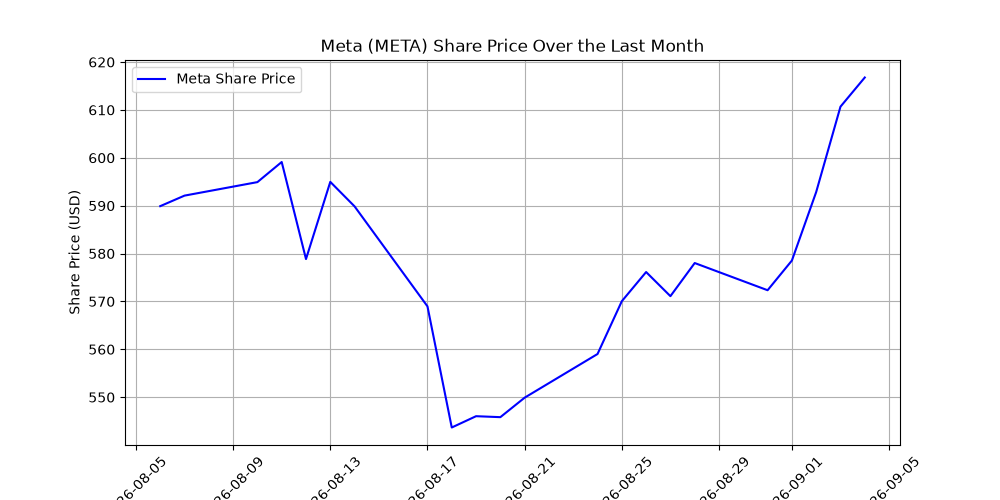
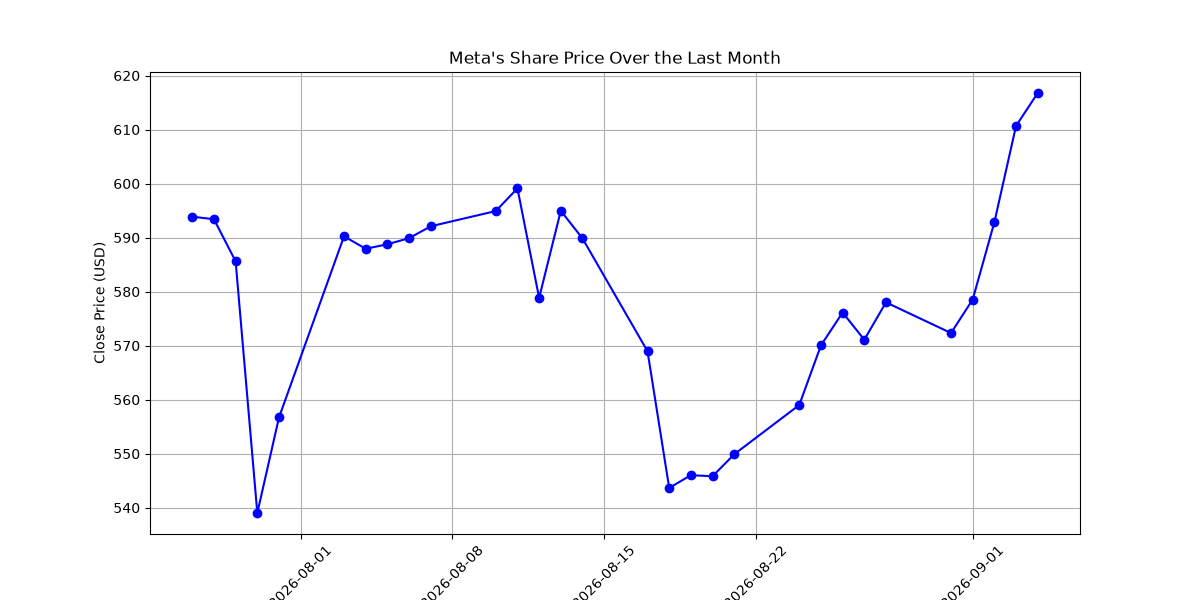
organize sub agents in sub_agent.py for multi-agents to import

diff --git a/graphs/multi_agent_swap.py b/graphs/multi_agent_swap.py
@@ -1,17 +1,15 @@
-from langchain.agents import create_agent
-from langchain_openai import ChatOpenAI
-from tools import wikipedia_tool, stock_data_tool, python_repl_tool
-from utils import pretty_print_messages
-from config import BaseConfig
-from langgraph_swarm import create_handoff_tool, create_swarm
-from langgraph.checkpoint.memory import InMemorySaver
 import asyncio
+
+from langchain_openai import ChatOpenAI
+from langgraph.checkpoint.memory import InMemorySaver
+from langgraph_swarm import create_handoff_tool, create_swarm
+
+from config import BaseConfig
+from sub_agents import research_agent, analyst_agent
+from utils import print_agent, agent_run
 
 settings = BaseConfig()
 api_key = settings.OPENAI_API_KEY
-
-# Add three tools to the list: wikipedia_tool, stock_data_tool, and python_repl_tool
-
 
 llm = ChatOpenAI(api_key=api_key, model="gpt-4o-mini")
 
@@ -27,57 +25,16 @@ transfer_to_analyst = create_handoff_tool(
     description="Transfer user to the analyst assistant, who can create visualizations of provided data.",
 )
 
-# Create a researcher agent with access to two tools + the handoff tool
-research_agent = create_agent(
-    llm,
-    tools=[wikipedia_tool, stock_data_tool, transfer_to_analyst],
-    system_prompt="You provide summaries from Wikipedia, and can query load raw, numerical stock performance data.",
-    name="researcher"
-)
-
-# Create a analyst agent with access to one tool + the handoff tool
-analyst_agent = create_agent(
-    llm,
-    [python_repl_tool, transfer_to_researcher],
-    # system_prompt="""You generate plots of stock performance data provided by another assistant.
-    # When generating stock performance visualizations, ALWAYS save the figure to a file using `plt.savefig('plot.png')`
-    # and call `plt.close()`. DO NOT use `plt.show()`.""",
-    system_prompt = """You generate plots of stock performance data provided by another assistant.""",
-    name="analyst"
-)
-
-config = {"configurable": {"thread_id": "1", "user_id": "1"}}
 checkpointer = InMemorySaver()
 
-# Create the swarm multi-agent graph and compile it
-
-
-
-async def agent_run(agent, query: str, config=None):
-    async for chunk in agent.astream(
-            {"messages": [{"role": "user",
-                           "content": query}]}, config
-    ):
-        pretty_print_messages(chunk)
-
-def print_agent(agent):
-    png_bytes = agent.get_graph().draw_mermaid_png()
-
-    with open("swarm_agent_graph.png", "wb") as f:
-        f.write(png_bytes)
-
+swarm_agent = create_swarm(
+    agents=[research_agent, analyst_agent],
+    default_active_agent="researcher"
+).compile(checkpointer=checkpointer)
 
 if __name__ == "__main__":
+    print_agent(swarm_agent, "swarm_agent.png")
+
     config = {"configurable": {"thread_id": "1", "user_id": "1"}}
-    checkpointer = InMemorySaver()
-
-    swarm_agent = create_swarm(
-        agents=[research_agent, analyst_agent],
-        default_active_agent="researcher"
-    ).compile(checkpointer=checkpointer)
-
-    # print_agent(swarm_agent)
-
     query = """Plot a chart of Meta's share price over the last month"""
-    # asyncio.run(agent_run(query))
     asyncio.run(agent_run(swarm_agent, query, config))

diff --git a/graphs/multi_agent_supervisor.py b/graphs/multi_agent_supervisor.py
@@ -1,42 +1,17 @@
 import asyncio
 
-from langchain.agents import create_agent
 from langchain_openai import ChatOpenAI
 from langgraph.checkpoint.memory import InMemorySaver
 from langgraph_supervisor import create_supervisor
 
 from config import BaseConfig
-from tools import wikipedia_tool, stock_data_tool, python_repl_tool
-from utils import pretty_print_messages
+from sub_agents import research_agent, analyst_agent
+from utils import agent_run, print_agent
 
 settings = BaseConfig()
 api_key = settings.OPENAI_API_KEY
 
-
-
-# Add three tools to the list: wikipedia_tool, stock_data_tool, and python_repl_tool
-
-
 llm = ChatOpenAI(api_key=api_key, model="gpt-4o-mini")
-
-# Create a researcher agent with access to two tools + the handoff tool
-research_agent = create_agent(
-    llm,
-    tools=[wikipedia_tool, stock_data_tool],
-    system_prompt="You provide summaries from Wikipedia, and can query load raw, numerical stock performance data.",
-    name="researcher"
-)
-
-# Create a analyst agent with access to one tool + the handoff tool
-analyst_agent = create_agent(
-    llm,
-    [python_repl_tool],
-    system_prompt="""You generate plots of stock performance data provided by another assistant.
-    When generating stock performance visualizations,ALWAYS ALWAYS use `plt.savefig()` to save generated figure
-    and call `plt.close()`. DO NOT use `plt.show()`.""",
-    # system_prompt = """You generate plots of stock performance data provided by another assistant.""",
-    name="analyst"
-)
 
 checkpointer = InMemorySaver()
 
@@ -56,28 +31,11 @@ supervisor = create_supervisor(
     output_mode="last_message"
 ).compile(checkpointer=checkpointer)
 
-
-async def agent_run(agent, query: str, config=None):
-    async for chunk in agent.astream(
-            {"messages": [{"role": "user",
-                           "content": query}]}, config
-    ):
-        pretty_print_messages(chunk)
-
-
-def print_agent(agent):
-    png_bytes = agent.get_graph().draw_mermaid_png()
-
-    with open("swarm_agent_graph.png", "wb") as f:
-        f.write(png_bytes)
-
-
 if __name__ == "__main__":
-    # print_agent(swarm_agent)
+    print_agent(supervisor, "supervisor_agent.png")
     config = {"configurable": {"thread_id": "1", "user_id": "1"}}
 
     query = """Plot a chart of Meta's share price over the last month"""
-    # asyncio.run(agent_run(query))
     asyncio.run(agent_run(supervisor, query, config))
     # asyncio.run(supervisor.ainvoke({"messages": [{"role": "user",
     #                        "content": query}]}, config

diff --git a/graphs/agent.py b/graphs/agent.py
@@ -1,9 +1,11 @@
+import asyncio
+
 from langchain.agents import create_agent
 from langchain_openai import ChatOpenAI
-from tools import wikipedia_tool, stock_data_tool, python_repl_tool
-from utils import pretty_print_messages
+
 from config import BaseConfig
-import asyncio
+from tools import wikipedia_tool, stock_data_tool, python_repl_tool
+from utils import print_agent, agent_run
 
 settings = BaseConfig()
 api_key = settings.OPENAI_API_KEY
@@ -23,29 +25,11 @@ You are an assistant for research and analysis of Fortune 500 companies. You hav
   and call `plt.close()`. DO NOT use `plt.show()`.
 """
 
-# Create an agent using the create_react_agent function
-
-
-def print_agent(agent):
-    png_bytes = agent.get_graph().draw_mermaid_png()
-
-    with open("agent_graph.png", "wb") as f:
-        f.write(png_bytes)
-
-async def agent_run(agent, query: str):
-    async for chunk in agent.astream(
-            {"messages": [{"role": "user",
-                           "content": query}]}
-    ):
-        pretty_print_messages(chunk)
-
+agent = create_agent(model=llm, system_prompt=prompt, tools=tools, name="financial_assistance")
 
 if __name__ == "__main__":
-    agent = create_agent(model=llm, system_prompt=prompt, tools=tools, name="financial_assistance")
+    print_agent(agent, "agent.png")
 
-    # print_agent(agent)
     query = """Tell me Tesla's current CEO, their latest stock price, 
     and generate a plot of the closing price with the most up-to-date data you have available."""
     asyncio.run(agent_run(agent, query))
-
-

diff --git a/graphs/sub_agents.py b/graphs/sub_agents.py
@@ -1,0 +1,28 @@
+from langchain.agents import create_agent
+from langchain_openai import ChatOpenAI
+
+from config import BaseConfig
+from tools import wikipedia_tool, stock_data_tool, python_repl_tool
+
+settings = BaseConfig()
+api_key = settings.OPENAI_API_KEY
+
+llm = ChatOpenAI(api_key=api_key, model="gpt-4o-mini")
+
+# Create a researcher agent with access to two tools + the handoff tool
+research_agent = create_agent(
+    llm,
+    tools=[wikipedia_tool, stock_data_tool],
+    system_prompt="You provide summaries from Wikipedia, and can query load raw, numerical stock performance data.",
+    name="researcher"
+)
+
+# Create a analyst agent with access to one tool + the handoff tool
+analyst_agent = create_agent(
+    llm,
+    [python_repl_tool],
+    system_prompt="""You generate plots of stock performance data provided by another assistant.
+    When generating stock performance visualizations,ALWAYS ALWAYS use `plt.savefig()` to save generated figure
+    and call `plt.close()`. DO NOT use `plt.show()`.""",
+    name="analyst"
+)

diff --git a/utils.py b/utils.py
@@ -39,3 +39,18 @@ def pretty_print_messages(update, last_message=False):
         for m in messages:
             pretty_print_message(m, indent=is_subgraph)
         print("\n")
+
+
+def print_agent(agent, image_file_path: str):
+    png_bytes = agent.get_graph().draw_mermaid_png()
+
+    with open(image_file_path, "wb") as f:
+        f.write(png_bytes)
+
+
+async def agent_run(agent, query: str, config=None):
+    async for chunk in agent.astream(
+            {"messages": [{"role": "user",
+                           "content": query}]}, config
+    ):
+        pretty_print_messages(chunk)

diff --git a/tools/python_REPL.py b/tools/python_REPL.py
@@ -1,12 +1,12 @@
 import asyncio
+import textwrap
 from typing import Annotated
+
+import matplotlib
 from langchain_core.tools import tool
 from langchain_experimental.utilities import PythonREPL
-import asyncio
-import textwrap
-import matplotlib
-matplotlib.use('Agg')  # Force headless non-GUI backend before importing pyplot!
 
+matplotlib.use('Agg')  # Force headless non-GUI backend before importing pyplot!
 
 repl = PythonREPL()
 
@@ -46,4 +46,3 @@ async def main():
 
 if __name__ == "__main__":
     asyncio.run(main())
-

diff --git a/config.py b/config.py
@@ -7,7 +7,6 @@ class BaseConfig(BaseSettings):
     OPENAI_API_KEY: Optional[str]
     PINECONE_API_KEY: Optional[str]
     TAVILY_API_KEY: Optional[str]
-       
 
     """Loads the dotenv file. Including this is necessary to get
     pydantic to load a .env file."""
